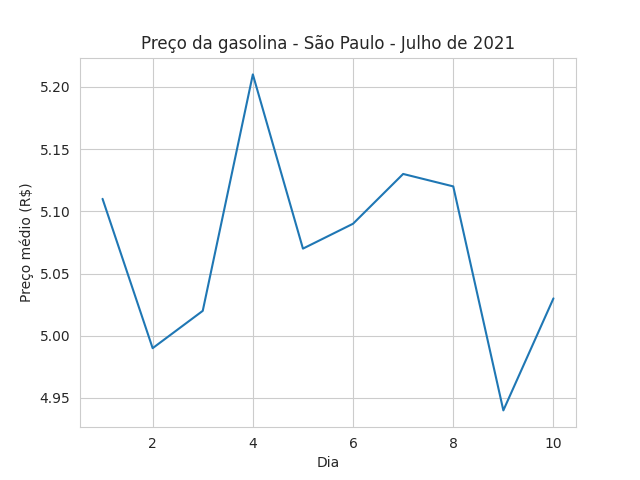
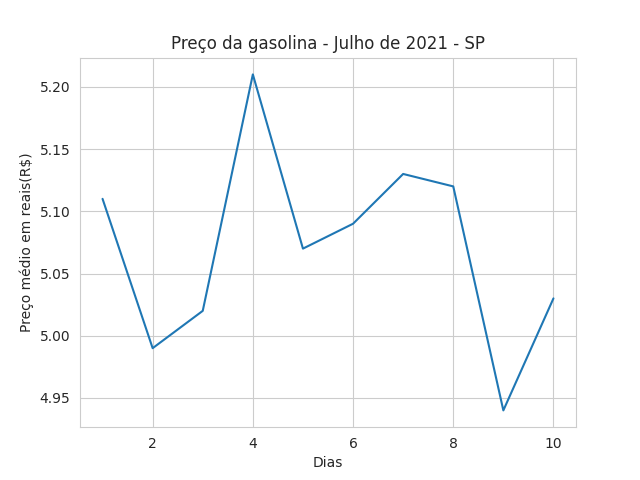
arquivos alterados em develop

Changed region(s): [[0.2188, 0.0625, 0.8125, 0.125], [0.0312, 0.3125, 0.0625, 0.6875], [0.4688, 0.9375, 0.5312, 0.9688]]

diff --git a/gasolina.py b/gasolina.py
@@ -7,5 +7,5 @@ import matplotlib.pyplot as plt
 gasolina_pd = pd.read_csv('gasolina.csv', sep=',')
 with sns.axes_style('whitegrid'):
   gasolina_grafico= sns.lineplot(data=gasolina_pd, x='dia', y='venda')
-  gasolina_grafico.set(title='Preço da gasolina - São Paulo - Julho de 2021', xlabel='Dia', ylabel='Preço médio (R$)')
+  gasolina_grafico.set(title='Preço da gasolina - Julho de 2021 - SP', xlabel='Dias', ylabel='Preço médio em reais(R$)')
   plt.savefig('gasolina.png')
